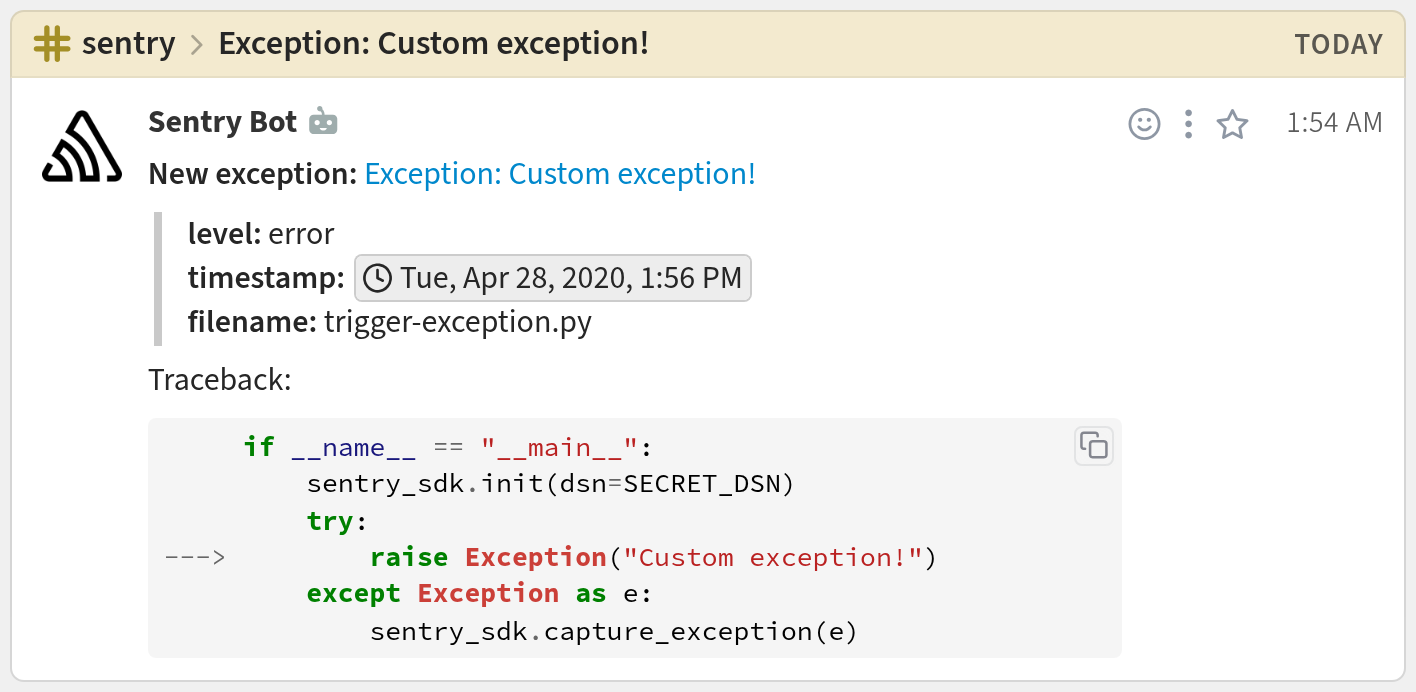
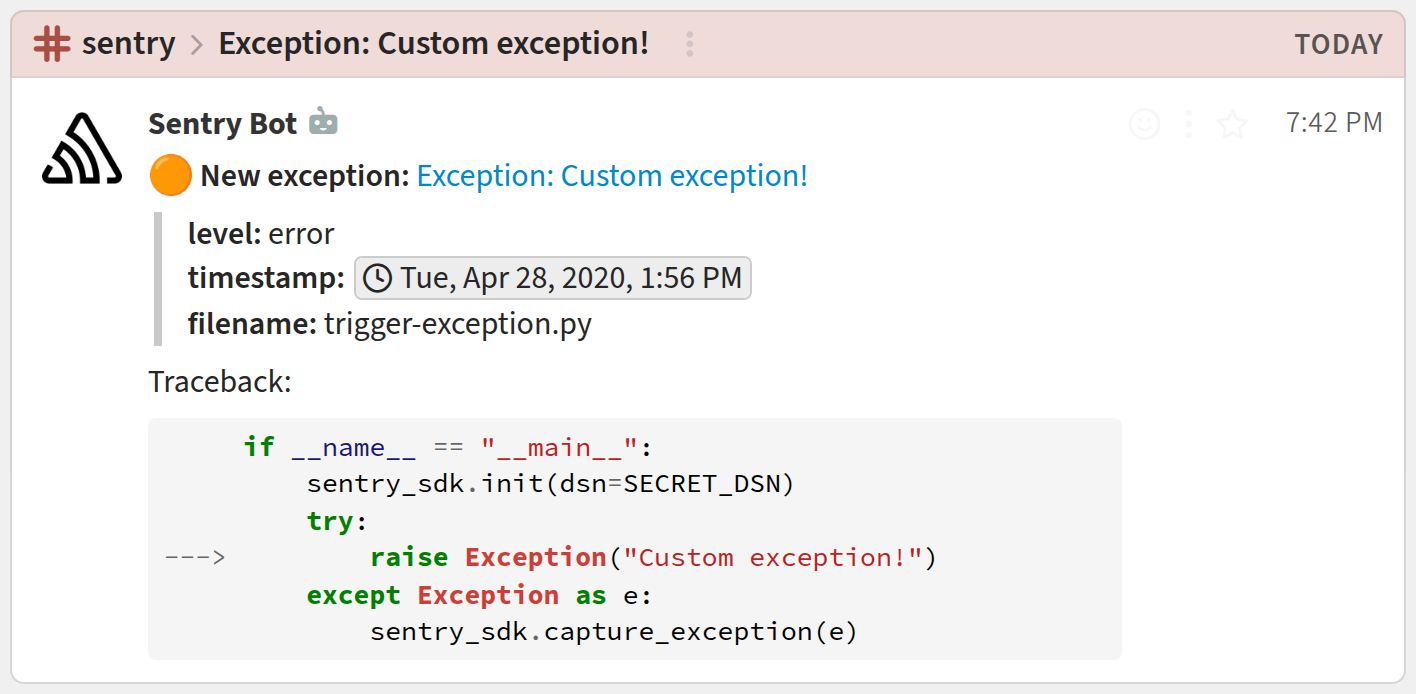
webhooks: Add severity-based emoji handling for Sentry.
Previously, Sentry webhook alerts in Zulip did not include
any visual indicators to denote the severity level. This made it
harder for users to quickly assess the importance of alerts, as
they had to rely solely on textual information without any visual
cues.

Now, severity-based emojis are added to the Sentry alert
messages to improve clarity. The severity level is extracted from
the payload, and the severity_emoji_map is used to
determine the appropriate emoji. These emojis are now included in
the alert message body to enhance visual distinction between
different alert levels.

Fixes part of #31240.

diff --git a/zerver/webhooks/sentry/tests.py b/zerver/webhooks/sentry/tests.py
@@ -5,7 +5,7 @@ class SentryHookTests(WebhookTestCase):
     def test_event_for_exception_golang(self) -> None:
         expected_topic_name = '*url.Error: Get "bad_url": unsupported protocol scheme ""'
         expected_message = """\
-**New exception:** [*url.Error: Get "bad_url": unsupported protocol scheme ""](https://sentry.io/organizations/hypro999-personal-organization/issues/1637164584/events/80777a9cc30e4d0eb8904333d5c298b0/)
+:orange_circle: **New exception:** [*url.Error: Get "bad_url": unsupported protocol scheme ""](https://sentry.io/organizations/hypro999-personal-organization/issues/1637164584/events/80777a9cc30e4d0eb8904333d5c298b0/)
 ```quote
 **level:** error
 **timestamp:** <time:2020-04-29T11:23:45+00:00>
@@ -31,7 +31,7 @@ Traceback:
     def test_event_for_exception_node(self) -> None:
         expected_topic_name = "Error: Sample error from node."
         expected_message = """\
-**New exception:** [Error: Sample error from node.](https://sentry.io/organizations/hypro999-personal-organization/issues/1638852747/events/f9cb0f2afff74a5aa92e766fb7ac3fe3/)
+:orange_circle: **New exception:** [Error: Sample error from node.](https://sentry.io/organizations/hypro999-personal-organization/issues/1638852747/events/f9cb0f2afff74a5aa92e766fb7ac3fe3/)
 ```quote
 **level:** error
 **timestamp:** <time:2020-04-30T06:19:33+00:00>
@@ -57,7 +57,7 @@ Traceback:
     def test_event_for_exception_python(self) -> None:
         expected_topic_name = "Exception: Custom exception!"
         expected_message = """\
-**New exception:** [Exception: Custom exception!](https://sentry.io/organizations/hypro999-personal-organization/issues/1635244907/events/599349254a1447a99774b5310711c1a8/)
+:orange_circle: **New exception:** [Exception: Custom exception!](https://sentry.io/organizations/hypro999-personal-organization/issues/1635244907/events/599349254a1447a99774b5310711c1a8/)
 ```quote
 **level:** error
 **timestamp:** <time:2020-04-28T13:56:05+00:00>
@@ -81,7 +81,7 @@ Traceback:
     def test_event_for_exception_rails(self) -> None:
         expected_topic_name = "ZeroDivisionError: divided by 0"
         expected_message = """\
-**New exception:** [ZeroDivisionError: divided by 0](https://sentry.io/organizations/nitk-46/issues/4213933362/events/49b528e13e45497ab9adc3173fd2ed34/)
+:orange_circle: **New exception:** [ZeroDivisionError: divided by 0](https://sentry.io/organizations/nitk-46/issues/4213933362/events/49b528e13e45497ab9adc3173fd2ed34/)
 ```quote
 **level:** error
 **timestamp:** <time:2023-05-29T10:12:33+00:00>
@@ -110,7 +110,7 @@ Traceback:
     def test_event_for_exception_vue(self) -> None:
         expected_topic_name = "TypeError: Cannot read properties of null (reading 'inser..."
         expected_message = """\
-**New exception:** [TypeError: Cannot read properties of null (reading 'insertBefore')](https://sentry.io/organizations/nitk-46/issues/4214010673/events/292f78454e774e62999506f759ad791d/)
+:orange_circle: **New exception:** [TypeError: Cannot read properties of null (reading 'insertBefore')](https://sentry.io/organizations/nitk-46/issues/4214010673/events/292f78454e774e62999506f759ad791d/)
 ```quote
 **level:** error
 **timestamp:** <time:2023-05-29T11:08:30+00:00>
@@ -121,7 +121,7 @@ Traceback:
     def test_webhook_event_for_exception_python(self) -> None:
         expected_topic_name = "ValueError: new sentry error."
         expected_message = """\
-**New exception:** [ValueError: new sentry error.](https://sentry.io/organizations/bar-foundation/issues/1972208801/events/c916dccfd58e41dcabaebef0091f0736/)
+:orange_circle: **New exception:** [ValueError: new sentry error.](https://sentry.io/organizations/bar-foundation/issues/1972208801/events/c916dccfd58e41dcabaebef0091f0736/)
 ```quote
 **level:** error
 **timestamp:** <time:2020-10-21T23:25:11+00:00>
@@ -146,7 +146,7 @@ Traceback:
     def test_webhook_event_for_exception_javascript(self) -> None:
         expected_topic_name = 'TypeError: can\'t access property "bar", x.foo is undefined'
         expected_message = """\
-**New exception:** [TypeError: can't access property "bar", x.foo is undefined](https://sentry.io/organizations/foo-bar-org/issues/1982047746/events/f3bf5fc4e354451db9e885a69b2a2b51/)
+:orange_circle: **New exception:** [TypeError: can't access property "bar", x.foo is undefined](https://sentry.io/organizations/foo-bar-org/issues/1982047746/events/f3bf5fc4e354451db9e885a69b2a2b51/)
 ```quote
 **level:** error
 **timestamp:** <time:2020-10-26T16:39:54+00:00>
@@ -159,7 +159,7 @@ Traceback:
     def test_event_for_exception_js(self) -> None:
         expected_topic_name = "Error: Something external broke."
         expected_message = """\
-**New exception:** [Error: Something external broke.](https://sentry.io/organizations/hypro999-personal-organization/issues/1731239773/events/355c3b2a142046629dd410db2fdda003/)
+:orange_circle: **New exception:** [Error: Something external broke.](https://sentry.io/organizations/hypro999-personal-organization/issues/1731239773/events/355c3b2a142046629dd410db2fdda003/)
 ```quote
 **level:** error
 **timestamp:** <time:2020-06-17T14:42:54+00:00>
@@ -170,7 +170,7 @@ Traceback:
     def test_event_for_message_golang(self) -> None:
         expected_topic_name = "A test message event from golang."
         expected_message = """\
-**New message event:** [A test message event from golang.](https://sentry.io/organizations/hypro999-personal-organization/issues/1638844654/events/01ecb45633bc4f5ca940ada671124c8f/)
+:blue_circle: **New message event:** [A test message event from golang.](https://sentry.io/organizations/hypro999-personal-organization/issues/1638844654/events/01ecb45633bc4f5ca940ada671124c8f/)
 ```quote
 **level:** info
 **timestamp:** <time:2020-04-30T06:14:13+00:00>
@@ -180,7 +180,7 @@ Traceback:
     def test_event_for_message_node(self) -> None:
         expected_topic_name = "Test event from node."
         expected_message = """\
-**New message event:** [Test event from node.](https://sentry.io/organizations/hypro999-personal-organization/issues/1638840427/events/6886bb1fe7ce4497b7836f6083d5fd34/)
+:blue_circle: **New message event:** [Test event from node.](https://sentry.io/organizations/hypro999-personal-organization/issues/1638840427/events/6886bb1fe7ce4497b7836f6083d5fd34/)
 ```quote
 **level:** info
 **timestamp:** <time:2020-04-30T06:09:56+00:00>
@@ -190,7 +190,7 @@ Traceback:
     def test_event_for_message_python(self) -> None:
         expected_topic_name = "A simple message-based issue."
         expected_message = """\
-**New message event:** [A simple message-based issue.](https://sentry.io/organizations/hypro999-personal-organization/issues/1635261062/events/8da63b42375e4d3b803c377fefb062f8/)
+:blue_circle: **New message event:** [A simple message-based issue.](https://sentry.io/organizations/hypro999-personal-organization/issues/1635261062/events/8da63b42375e4d3b803c377fefb062f8/)
 ```quote
 **level:** info
 **timestamp:** <time:2020-04-28T14:05:04+00:00>
@@ -210,7 +210,7 @@ Traceback:
     def test_issue_created_for_exception(self) -> None:
         expected_topic_name = "Exception: Custom exception!"
         expected_message = """\
-**New issue created:** Exception: Custom exception!
+:orange_circle: **New issue created:** Exception: Custom exception!
 ```quote
 **level:** error
 **timestamp:** <time:2020-04-28T13:56:05+00:00>
@@ -221,7 +221,7 @@ Traceback:
     def test_issue_created_for_message(self) -> None:
         expected_topic_name = "A simple message-based issue."
         expected_message = """\
-**New issue created:** A simple message-based issue.
+:blue_circle: **New issue created:** A simple message-based issue.
 ```quote
 **level:** info
 **timestamp:** <time:2020-04-28T14:05:04+00:00>
@@ -242,7 +242,7 @@ Traceback:
     def test_deprecated_exception_message(self) -> None:
         expected_topic_name = "zulip"
         expected_message = """\
-New [issue](https://sentry.io/zulip/zulip/issues/156699934/) (level: ERROR):
+:orange_circle: New [issue](https://sentry.io/zulip/zulip/issues/156699934/) (level: ERROR):
 
 ``` quote
 This is an example python exception
@@ -252,7 +252,7 @@ This is an example python exception
     def test_sample_event_through_alert(self) -> None:
         expected_topic_name = "This is an example Python exception"
         expected_message = """\
-**New message event:** [This is an example Python exception](https://sentry.io/organizations/nitk-46/issues/4218258981/events/b6eff1a49b1f4132850b1238d968da70/)
+:orange_circle: **New message event:** [This is an example Python exception](https://sentry.io/organizations/nitk-46/issues/4218258981/events/b6eff1a49b1f4132850b1238d968da70/)
 ```quote
 **level:** error
 **timestamp:** <time:2023-05-31T11:06:16+00:00>
@@ -262,7 +262,7 @@ This is an example python exception
     def test_sample_event_through_plugin(self) -> None:
         expected_topic_name = "This is an example Python exception"
         expected_message = """\
-**New message event:** [This is an example Python exception](https://nitk-46.sentry.io/issues/4218258981/events/4dc4fc2858aa450eb658be9e5b8ad149/)
+:orange_circle: **New message event:** [This is an example Python exception](https://nitk-46.sentry.io/issues/4218258981/events/4dc4fc2858aa450eb658be9e5b8ad149/)
 ```quote
 **level:** error
 **timestamp:** <time:2023-07-09T20:41:24+00:00>

diff --git a/zerver/webhooks/sentry/view.py b/zerver/webhooks/sentry/view.py
@@ -14,7 +14,7 @@ from zerver.lib.webhooks.common import check_send_webhook_message
 from zerver.models import UserProfile
 
 DEPRECATED_EXCEPTION_MESSAGE_TEMPLATE = """
-New [issue]({url}) (level: {level}):
+{severity_emoji} New [issue]({url}) (level: {level}):
 
 ``` quote
 {message}
@@ -22,7 +22,7 @@ New [issue]({url}) (level: {level}):
 """
 
 MESSAGE_EVENT_TEMPLATE = """
-**New message event:** [{title}]({web_link})
+{severity_emoji} **New message event:** [{title}]({web_link})
 ```quote
 **level:** {level}
 **timestamp:** {global_time}
@@ -30,7 +30,7 @@ MESSAGE_EVENT_TEMPLATE = """
 """
 
 EXCEPTION_EVENT_TEMPLATE = """
-**New exception:** [{title}]({web_link})
+{severity_emoji} **New exception:** [{title}]({web_link})
 ```quote
 **level:** {level}
 **timestamp:** {global_time}
@@ -51,7 +51,7 @@ Traceback:
 # this will actually look better in the traceback.
 
 ISSUE_CREATED_MESSAGE_TEMPLATE = """
-**New issue created:** {title}
+{severity_emoji} **New issue created:** {title}
 ```quote
 **level:** {level}
 **timestamp:** {global_time}
@@ -79,6 +79,15 @@ syntax_highlight_as_map = {
     "node": "javascript",
     "python": "python3",
     "ruby": "ruby",
+}
+
+severity_emoji_map = {
+    "fatal": ":red_circle:",
+    "error": ":orange_circle:",
+    "warning": ":yellow_circle:",
+    "log": ":white_circle:",
+    "info": ":blue_circle:",
+    "debug": ":purple_circle:",
 }
 
 
@@ -116,6 +125,7 @@ def handle_event_payload(event: dict[str, Any]) -> tuple[str, str]:
     if syntax_highlight_as == "":  # nocoverage
         logging.info("Unknown Sentry platform: %s", platform_name)
 
+    severity_emoji = severity_emoji_map.get(event["level"], "")
     # We shouldn't support the officially deprecated Raven series of
     # Python SDKs.
     if platform_name == "python" and int(event["version"]) < 7 and not is_sample_event(event):
@@ -124,6 +134,7 @@ def handle_event_payload(event: dict[str, Any]) -> tuple[str, str]:
         raise UnsupportedWebhookEventTypeError("Raven SDK")
     context = {
         "title": topic_name,
+        "severity_emoji": severity_emoji,
         "level": event["level"],
         "web_link": event["web_url"],
         "global_time": get_global_time(event["datetime"]),
@@ -169,17 +180,17 @@ def handle_event_payload(event: dict[str, Any]) -> tuple[str, str]:
                     post_context=post_context,
                 )
 
-                body = EXCEPTION_EVENT_TEMPLATE_WITH_TRACEBACK.format(**context)
+                body = EXCEPTION_EVENT_TEMPLATE_WITH_TRACEBACK.format(**context).strip()
                 return (topic_name, body)
 
         context.update(filename=filename)  # nocoverage
-        body = EXCEPTION_EVENT_TEMPLATE.format(**context)  # nocoverage
+        body = EXCEPTION_EVENT_TEMPLATE.format(**context).strip()  # nocoverage
         return (topic_name, body)  # nocoverage
 
     elif "logentry" in event:
         # The event was triggered by a sentry.capture_message() call
         # (in the Python Sentry SDK) or something similar.
-        body = MESSAGE_EVENT_TEMPLATE.format(**context)
+        body = MESSAGE_EVENT_TEMPLATE.format(**context).strip()
 
     else:
         raise UnsupportedWebhookEventTypeError("unknown-event type")
@@ -193,6 +204,7 @@ def handle_issue_payload(
     """Handle either an issue type event."""
     topic_name = issue["title"]
     global_time = get_global_time(issue["lastSeen"])
+    severity_emoji = severity_emoji_map.get(issue["level"], "")
 
     if issue["assignedTo"]:
         if issue["assignedTo"]["type"] == "team":
@@ -205,11 +217,12 @@ def handle_issue_payload(
     if action == "created":
         context = {
             "title": topic_name,
+            "severity_emoji": severity_emoji,
             "level": issue["level"],
             "global_time": global_time,
             "assignee": assignee,
         }
-        body = ISSUE_CREATED_MESSAGE_TEMPLATE.format(**context)
+        body = ISSUE_CREATED_MESSAGE_TEMPLATE.format(**context).strip()
 
     elif action == "resolved":
         context = {
@@ -241,11 +254,13 @@ def handle_issue_payload(
 
 def handle_deprecated_payload(payload: dict[str, Any]) -> tuple[str, str]:
     topic_name = "{}".format(payload.get("project_name"))
+    severity_emoji = severity_emoji_map.get(payload["level"], "")
     body = DEPRECATED_EXCEPTION_MESSAGE_TEMPLATE.format(
+        severity_emoji=severity_emoji,
         level=payload["level"].upper(),
         url=payload.get("url"),
         message=payload.get("message"),
-    )
+    ).strip()
     return (topic_name, body)
 
 
